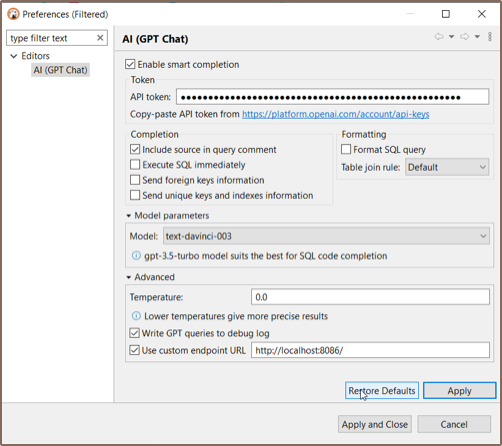
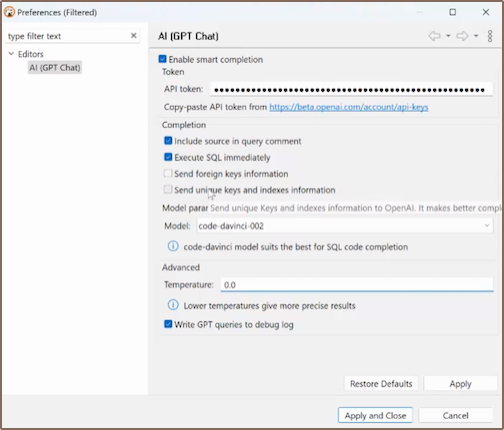
Restored the previous version of the AI article

diff --git a/AI-Smart-Assistance.md b/AI-Smart-Assistance.md
@@ -144,8 +144,6 @@ There are some additional settings available in [Enterprise](Enterprise-Edition)
 
 - **Table join rule** allows explicit JOIN or JOIN with sub-queries.
 
-- **Use custom endpoint URL** - specify this option to define a custom endpoint URL for configuring interaction with
-  OpenAPI.
 
 ## Receive API key
 
